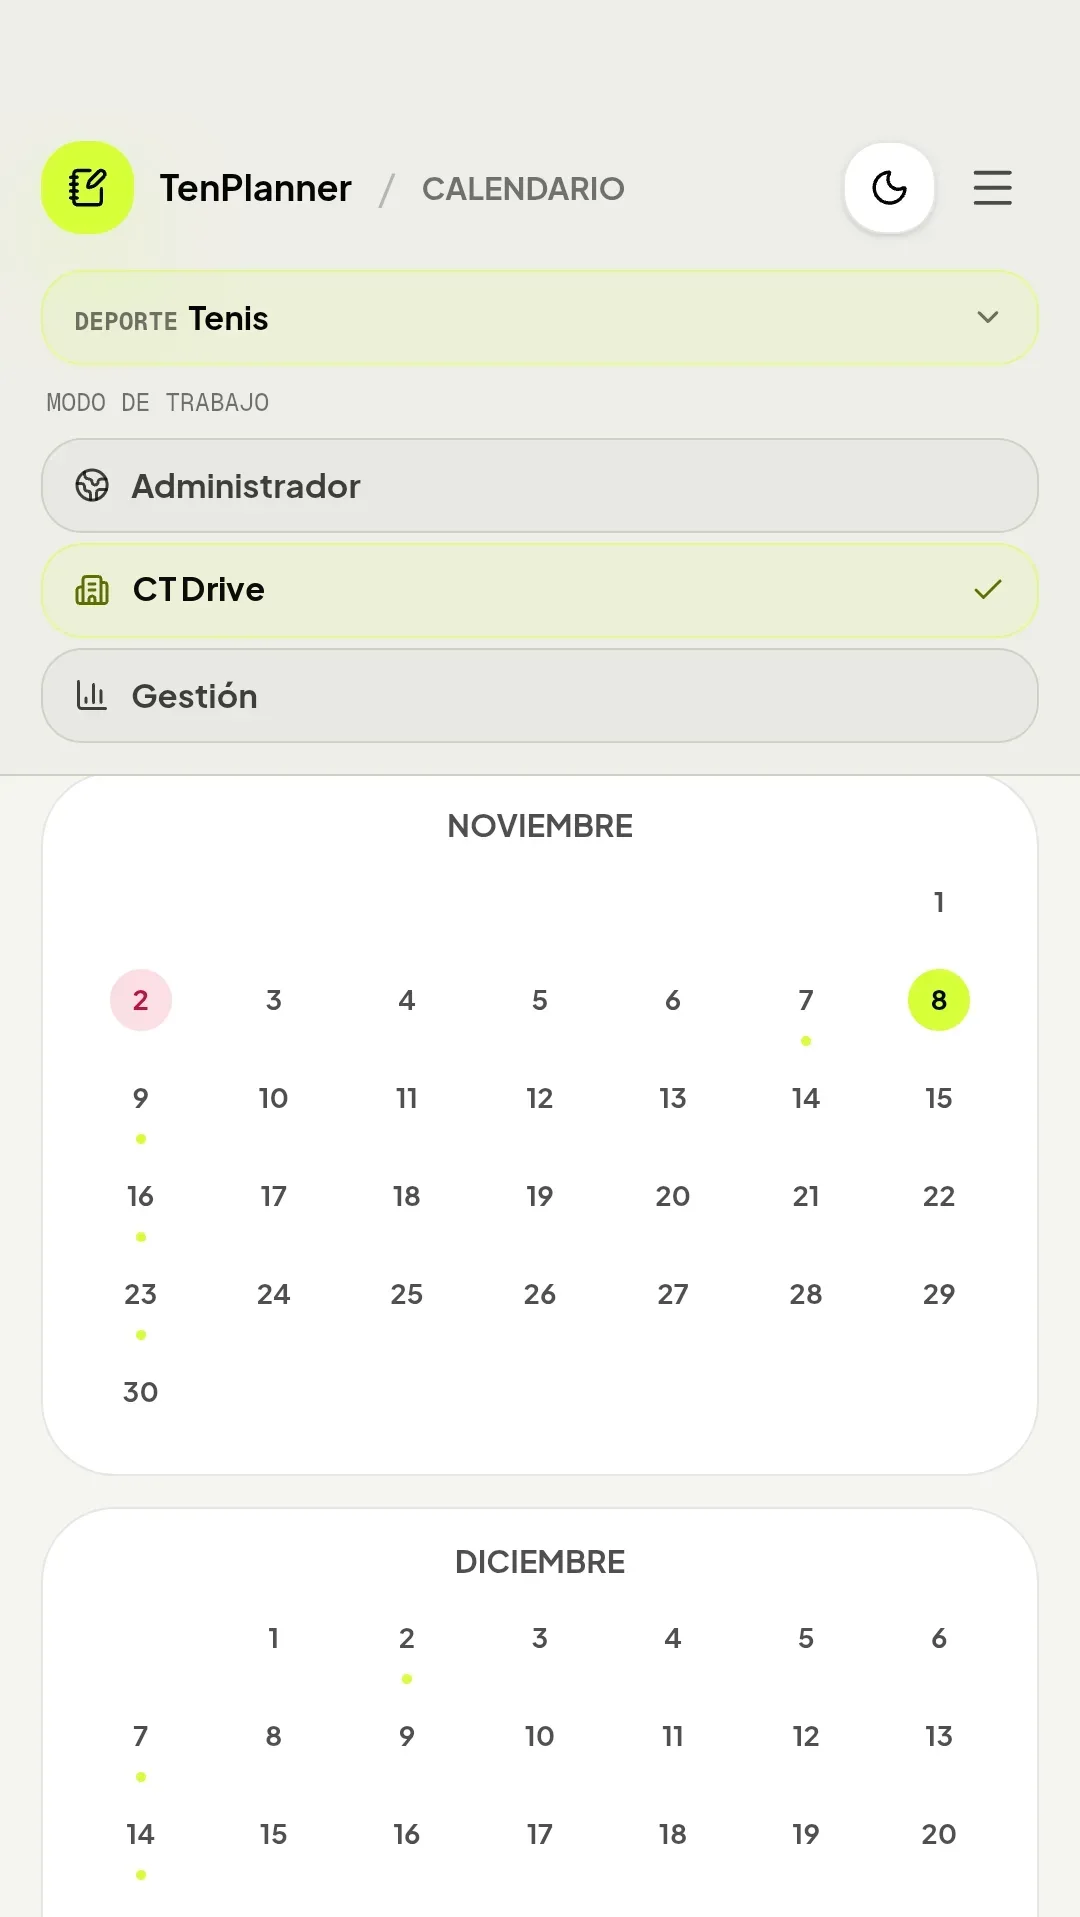
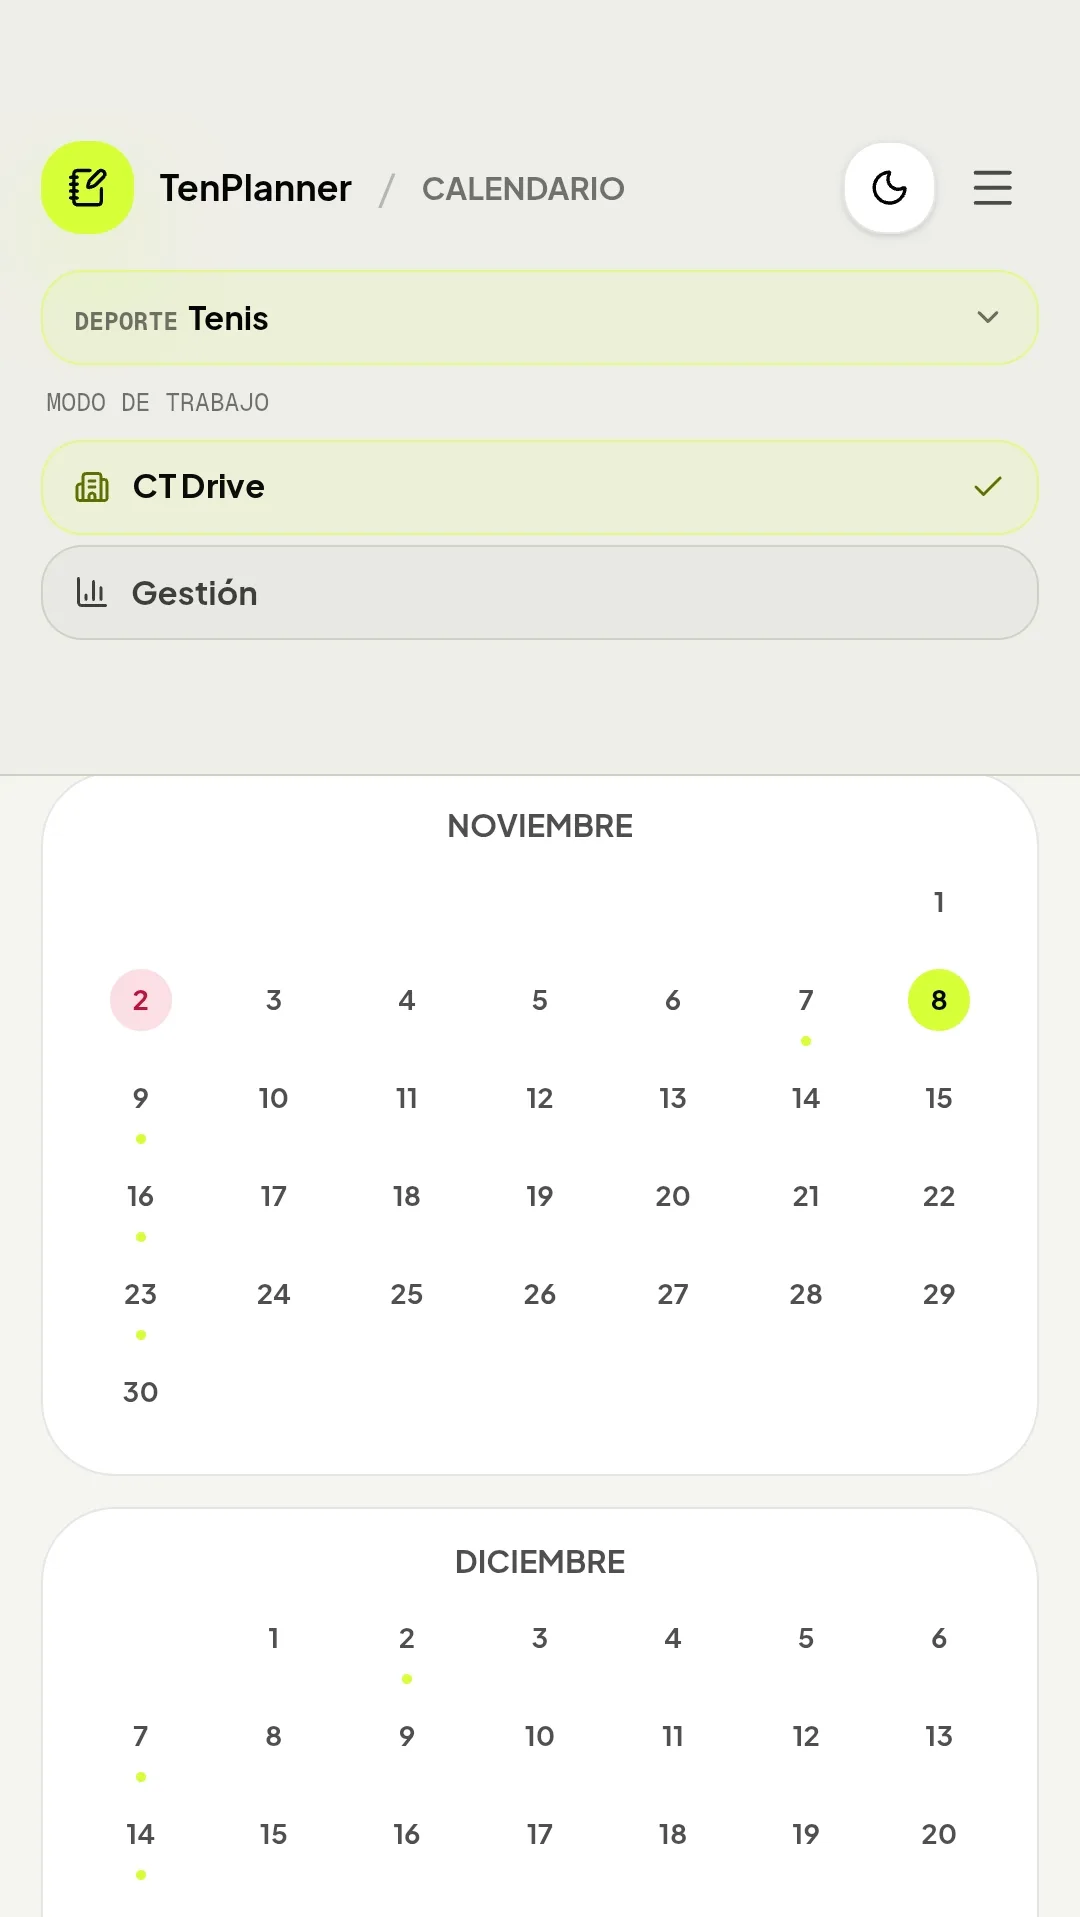
Landing: arreglar el carrusel del móvil (no se quedaba parado al tocar), deslizar para cambiar y quitar 'Administrador' de las capturas
Claude-Session: https://claude.ai/code/session_01Wytw3UAtQsVcj3p7tPmpFC

Changed region(s): [[0.0306, 0.2154, 0.9472, 0.3693], [0.9472, 0.2462, 0.9778, 0.277]]

diff --git a/components/landing/app-screens-phone.tsx b/components/landing/app-screens-phone.tsx
@@ -1,36 +1,54 @@
 "use client";
 
 import Image from "next/image";
-import { useEffect, useState } from "react";
+import { useEffect, useRef, useState } from "react";
 import { cn } from "@/lib/utils";
 import type { LandingScreen } from "@/lib/landing-screens";
 
 const INTERVAL_MS = 4500;
 
 /**
- * Marco de móvil con capturas reales de la app que se van alternando.
- * Se pausa al pasar el ratón o el dedo, y respeta "reducir movimiento".
+ * Marco de móvil con capturas reales de la app que se van alternando solas.
+ * Con ratón se pausa mientras está encima; en el móvil se puede deslizar o
+ * tocar los puntos, y el pase automático sigue después.
  */
 export function AppScreensPhone({ screens }: { screens: LandingScreen[] }) {
   const [index, setIndex] = useState(0);
-  const [paused, setPaused] = useState(false);
+  const [hovered, setHovered] = useState(false);
+  // Cambia cada vez que el usuario elige pantalla, para reiniciar el temporizador.
+  const [tick, setTick] = useState(0);
+  const touchX = useRef<number | null>(null);
 
   useEffect(() => {
-    if (screens.length < 2 || paused) return;
-    if (window.matchMedia("(prefers-reduced-motion: reduce)").matches) return;
+    if (screens.length < 2 || hovered) return;
     const id = window.setInterval(
       () => setIndex((i) => (i + 1) % screens.length),
       INTERVAL_MS
     );
     return () => window.clearInterval(id);
-  }, [screens.length, paused]);
+  }, [screens.length, hovered, tick]);
+
+  function goTo(next: number) {
+    setIndex((next + screens.length) % screens.length);
+    setTick((t) => t + 1);
+  }
 
   return (
     <div
       className="mx-auto w-[282px]"
-      onMouseEnter={() => setPaused(true)}
-      onMouseLeave={() => setPaused(false)}
-      onTouchStart={() => setPaused(true)}
+      onPointerEnter={(e) => e.pointerType === "mouse" && setHovered(true)}
+      onPointerLeave={(e) => e.pointerType === "mouse" && setHovered(false)}
+      onTouchStart={(e) => {
+        touchX.current = e.touches[0]?.clientX ?? null;
+      }}
+      onTouchEnd={(e) => {
+        const startX = touchX.current;
+        touchX.current = null;
+        const endX = e.changedTouches[0]?.clientX;
+        if (startX == null || endX == null) return;
+        const dx = endX - startX;
+        if (Math.abs(dx) > 40) goTo(index + (dx < 0 ? 1 : -1));
+      }}
     >
       <div className="relative w-[282px] rounded-[42px] bg-[#050505] p-[9px] shadow-[0_45px_100px_rgba(5,5,5,0.22)] ring-1 ring-black/10">
         {/* Las capturas son 1080×1917: el hueco de pantalla mantiene esa forma. */}
@@ -44,7 +62,7 @@ export function AppScreensPhone({ screens }: { screens: LandingScreen[] }) {
               sizes="264px"
               priority={i === 0}
               className={cn(
-                "object-cover object-top transition-opacity duration-700",
+                "object-cover object-top transition-opacity duration-700 motion-reduce:transition-none",
                 i === index ? "opacity-100" : "opacity-0"
               )}
               aria-hidden={i !== index}
@@ -68,10 +86,7 @@ export function AppScreensPhone({ screens }: { screens: LandingScreen[] }) {
               <button
                 key={screen.src}
                 type="button"
-                onClick={() => {
-                  setIndex(i);
-                  setPaused(true);
-                }}
+                onClick={() => goTo(i)}
                 aria-label={`Ver ${screen.label}`}
                 aria-current={i === index}
                 className={cn(
